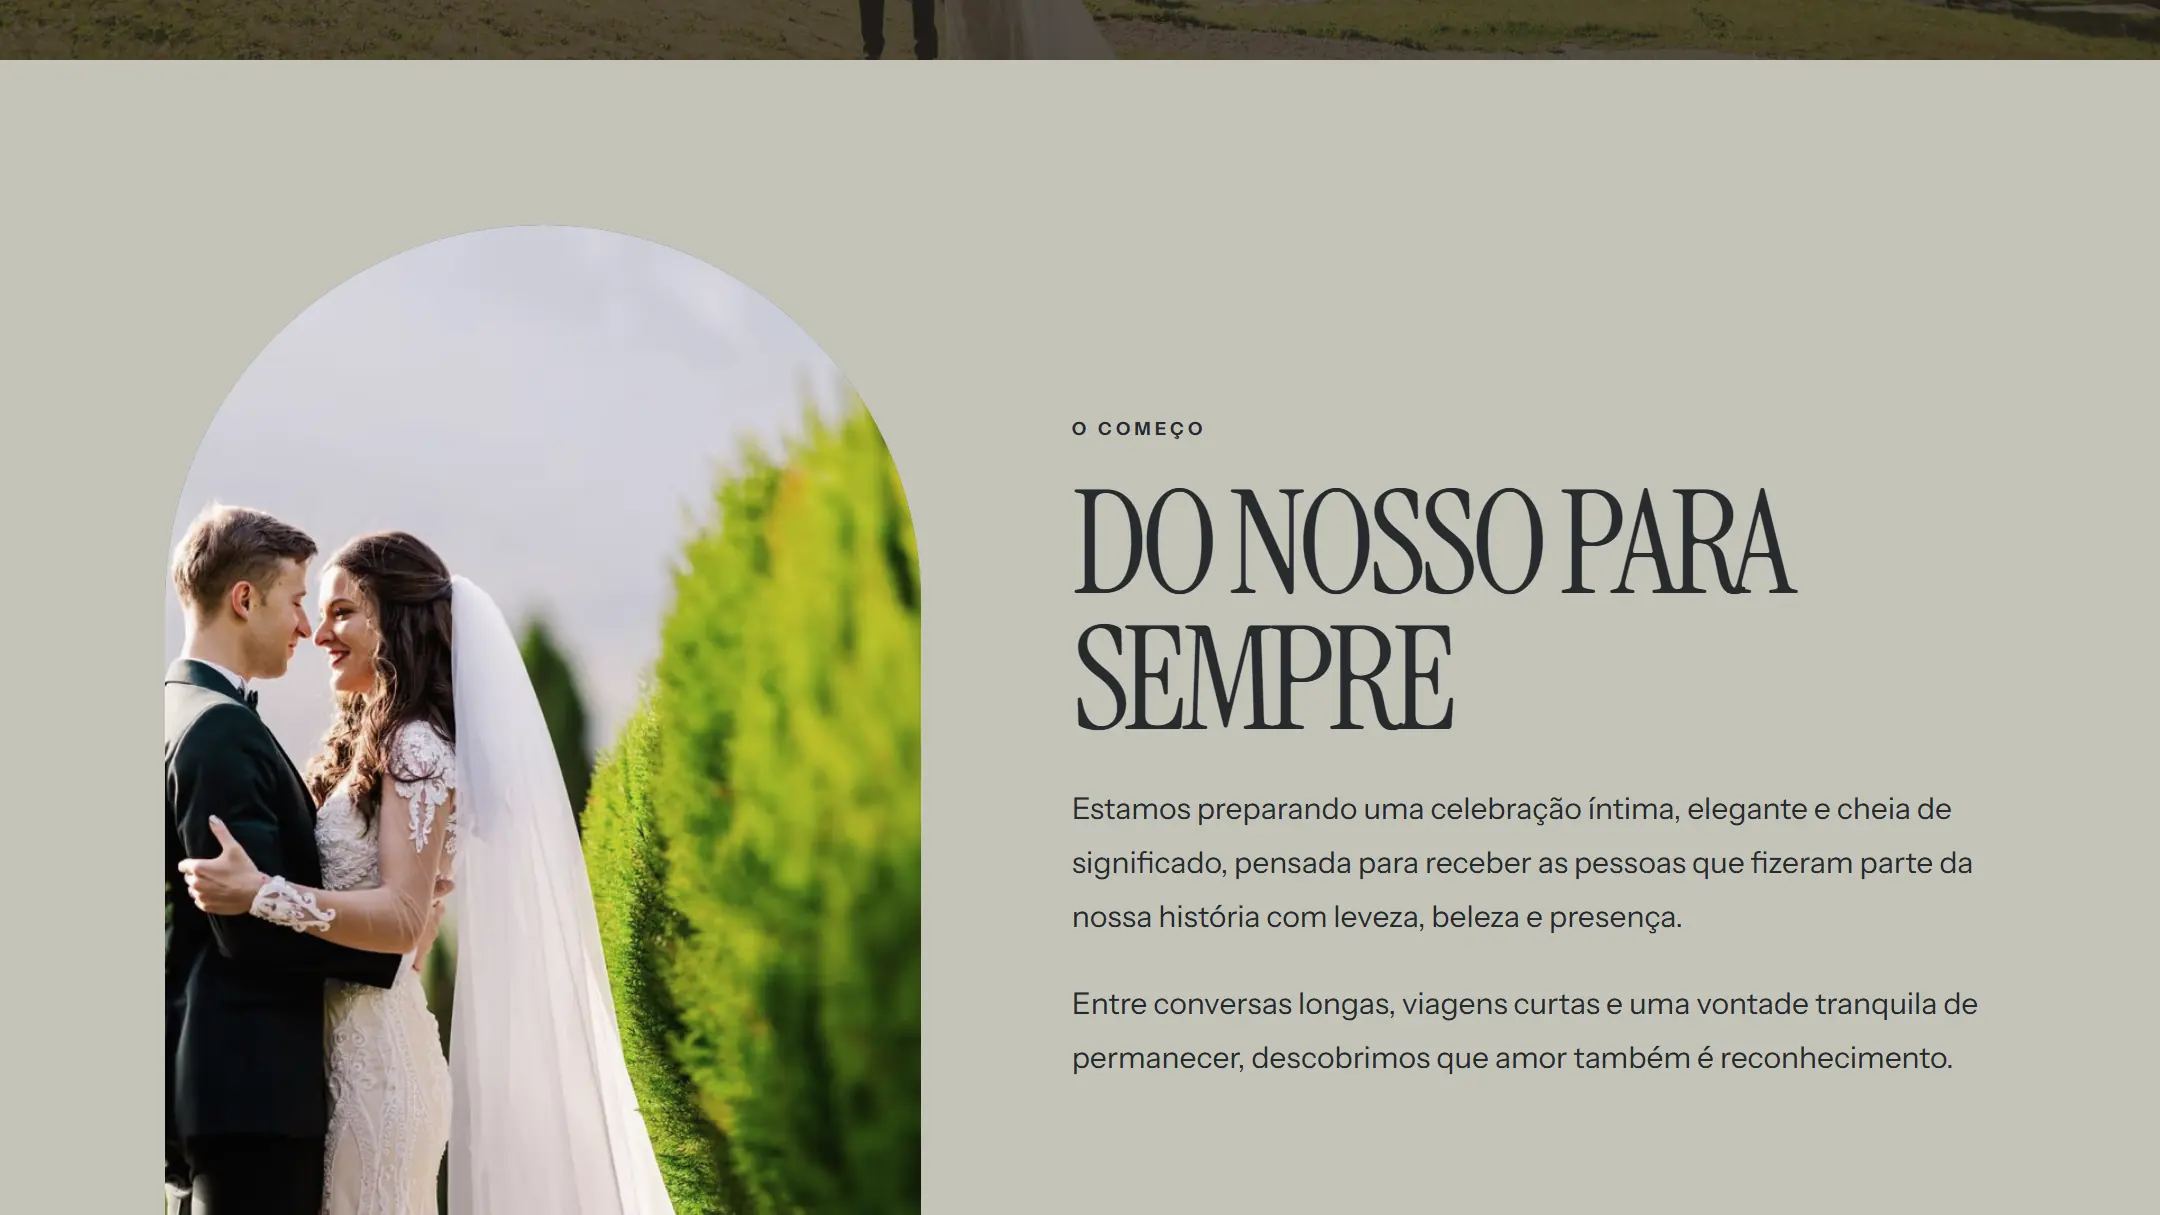
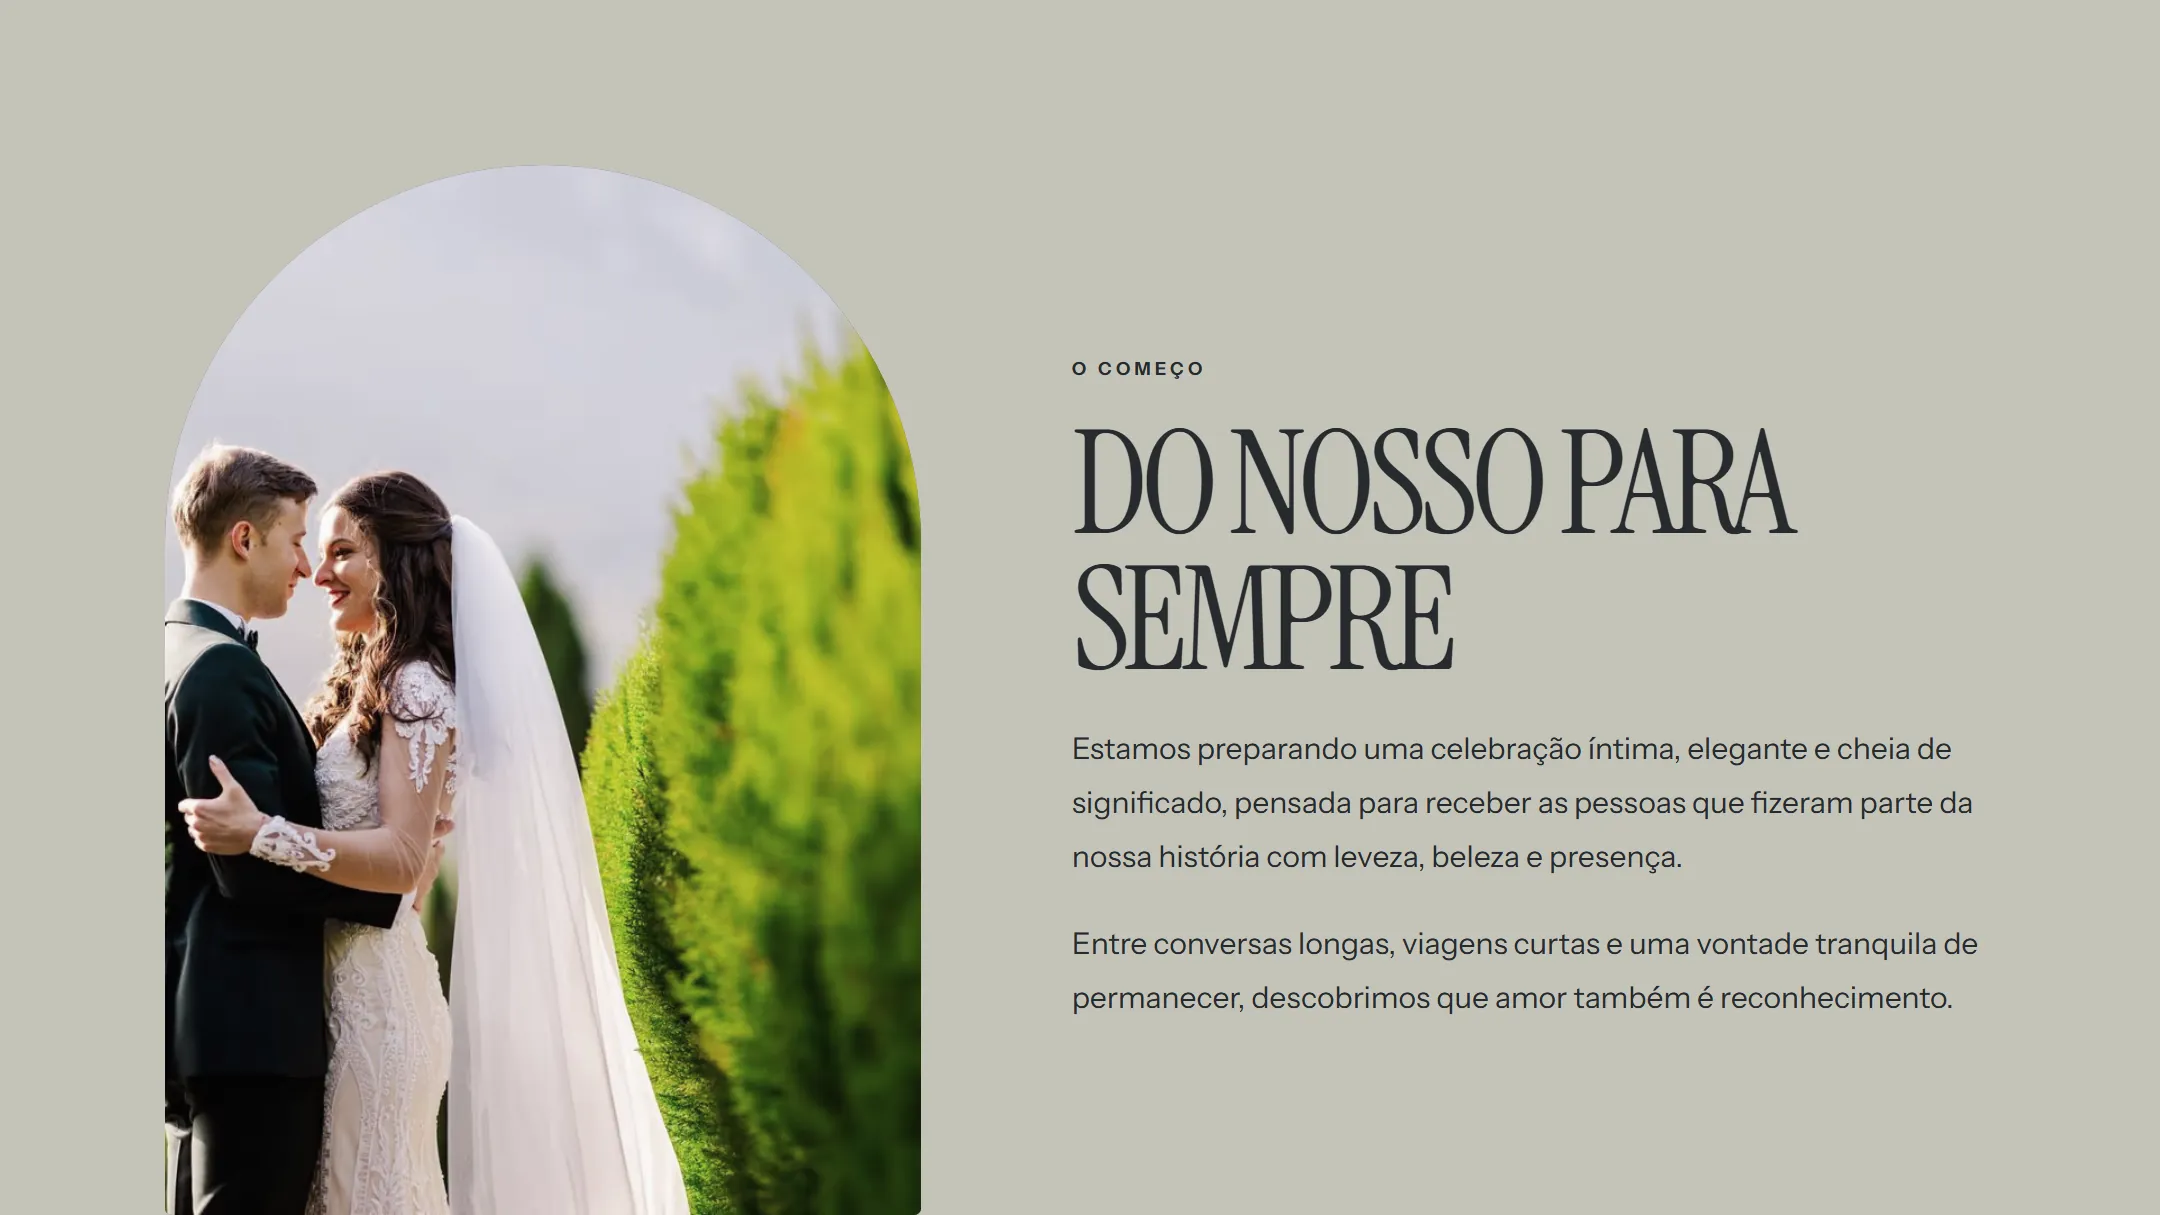
fix(landing): capa do Jardim Clássico sem a faixa da seção anterior

diff --git a/scripts/capture-landing.py b/scripts/capture-landing.py
@@ -316,7 +316,7 @@ def capture_capa(browser, base: str) -> None:
         page.evaluate("""() => {
           const title = document.querySelector('#story-title');
           const target = title || document.querySelectorAll('section')[1];
-          const top = target.getBoundingClientRect().top + scrollY - (title ? 130 : 40);
+          const top = target.getBoundingClientRect().top + scrollY - (title ? 130 : 0);
           window.scrollTo({ top, behavior: 'instant' });
         }""")
         page.evaluate(SETTLE_JS)
